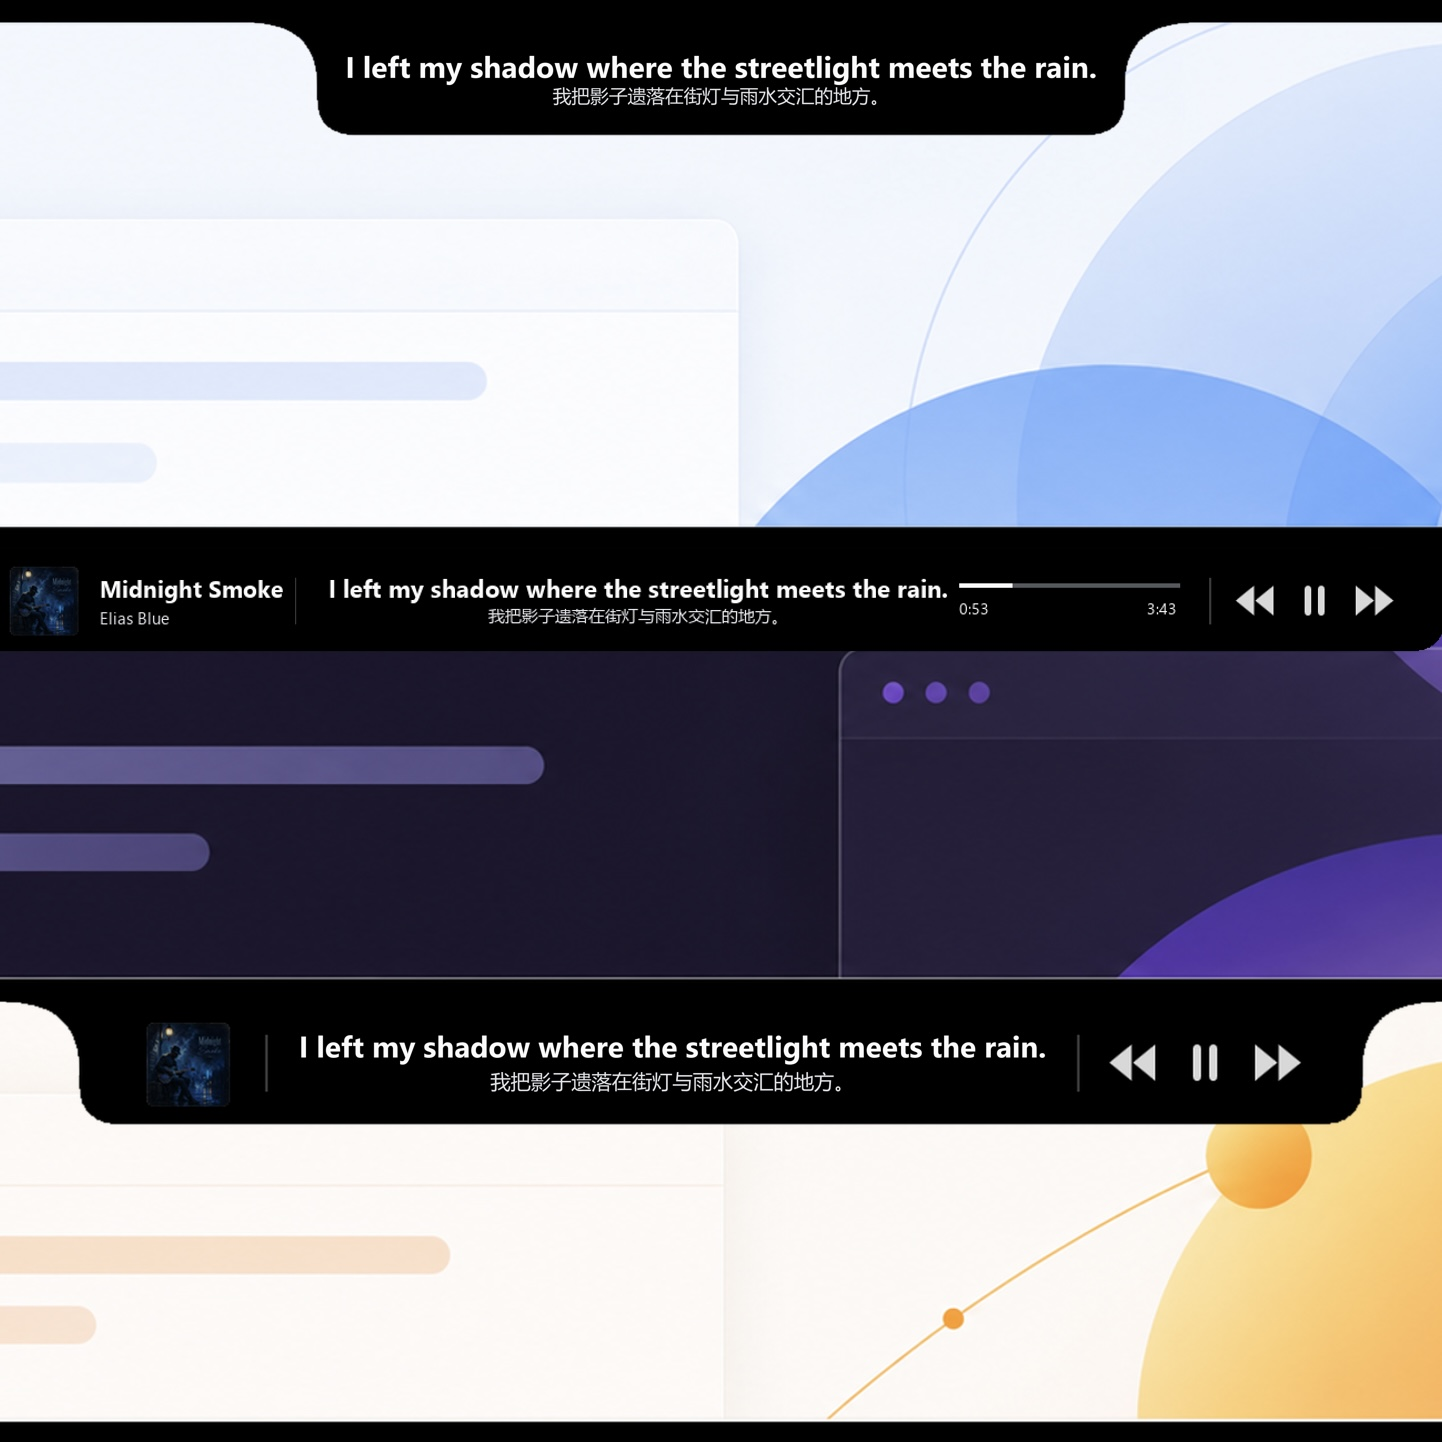
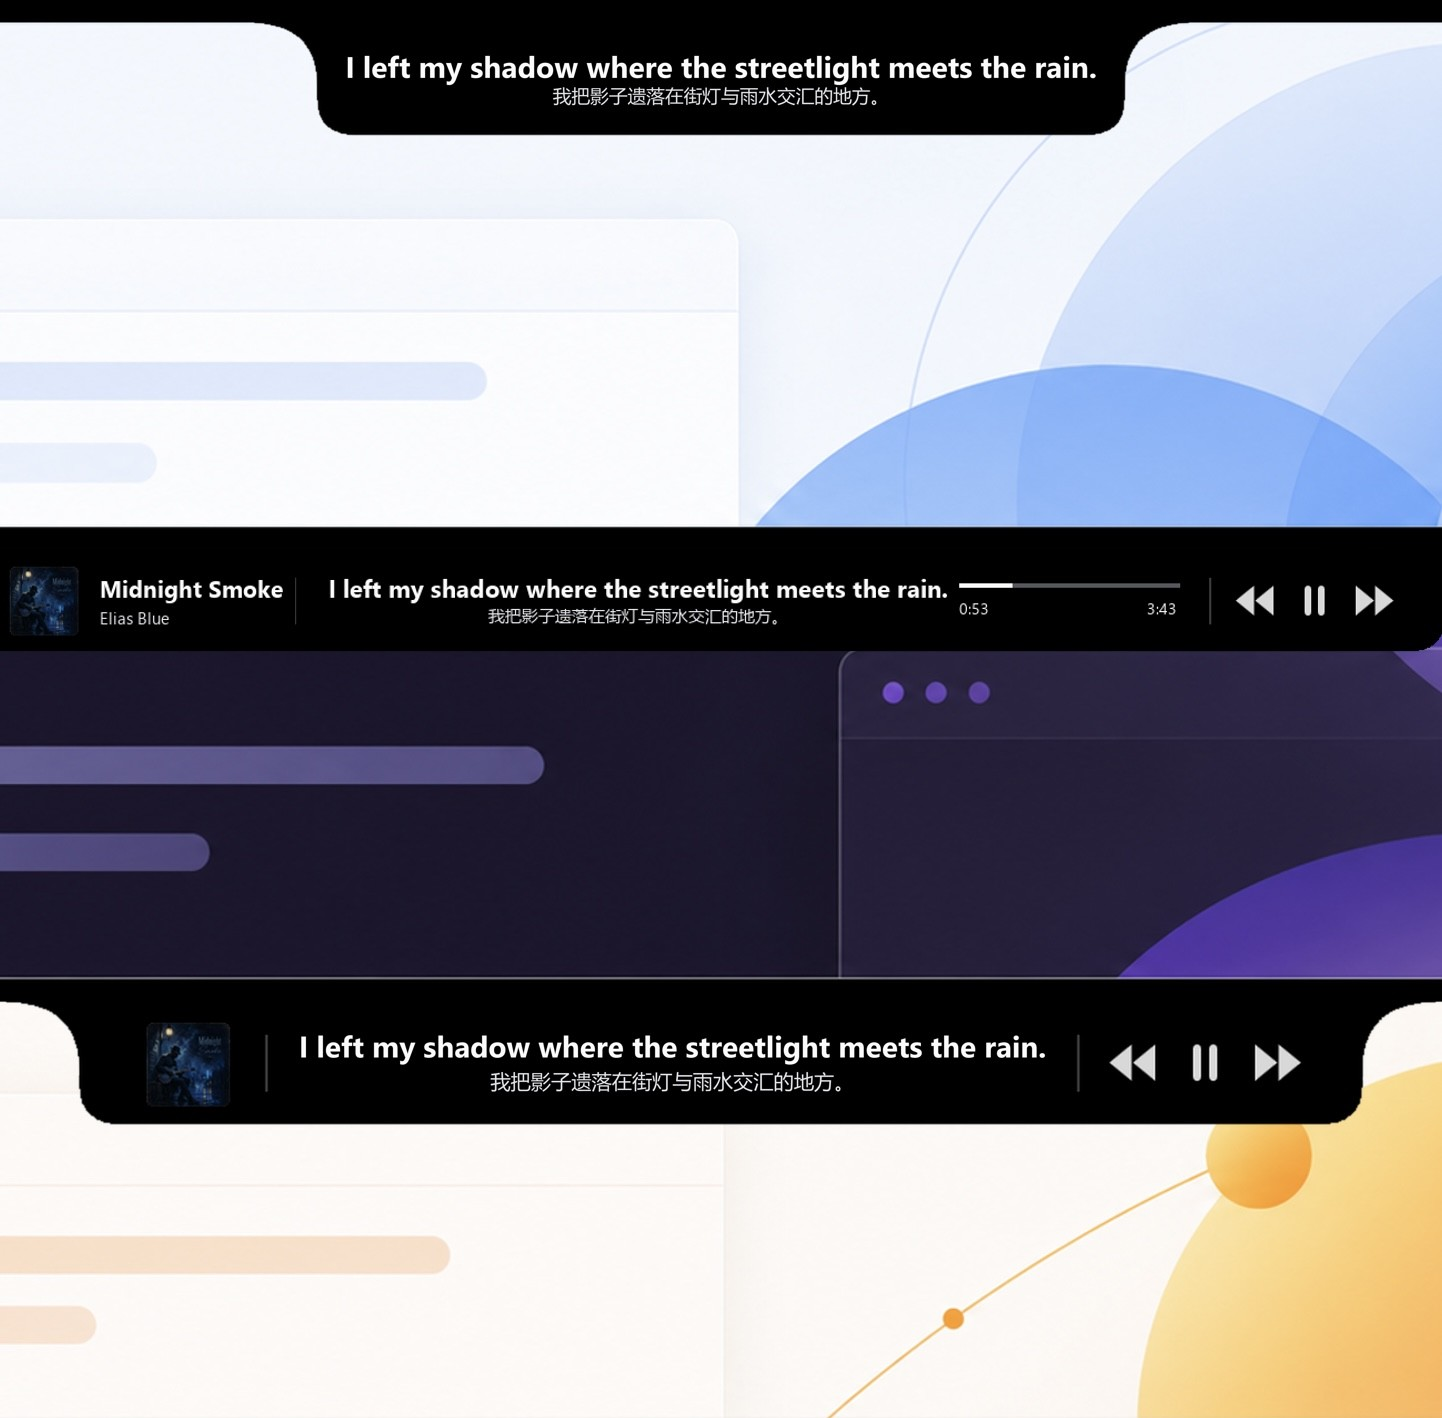
feat update opening experience artwork

diff --git a/website/tests/smoke.py b/website/tests/smoke.py
@@ -391,7 +391,7 @@ def test_navigation_and_orbit(page: Page) -> None:
         {
             "file": "experience-playback.jpg",
             "naturalWidth": 1442,
-            "naturalHeight": 1442,
+            "naturalHeight": 1418,
             "objectFit": "cover",
         },
         {
